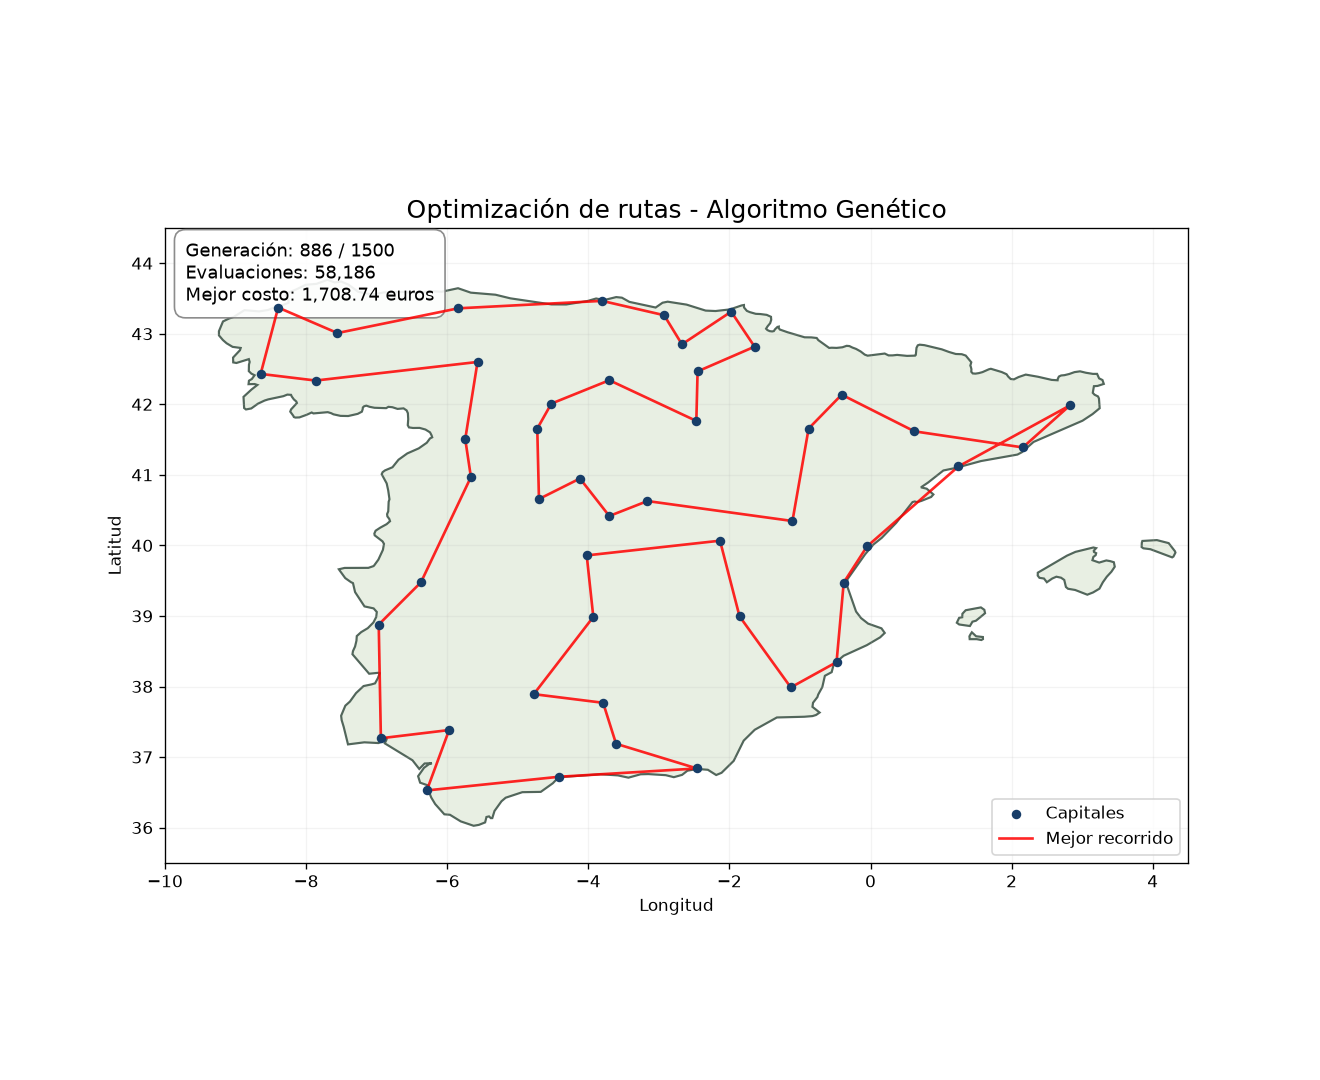
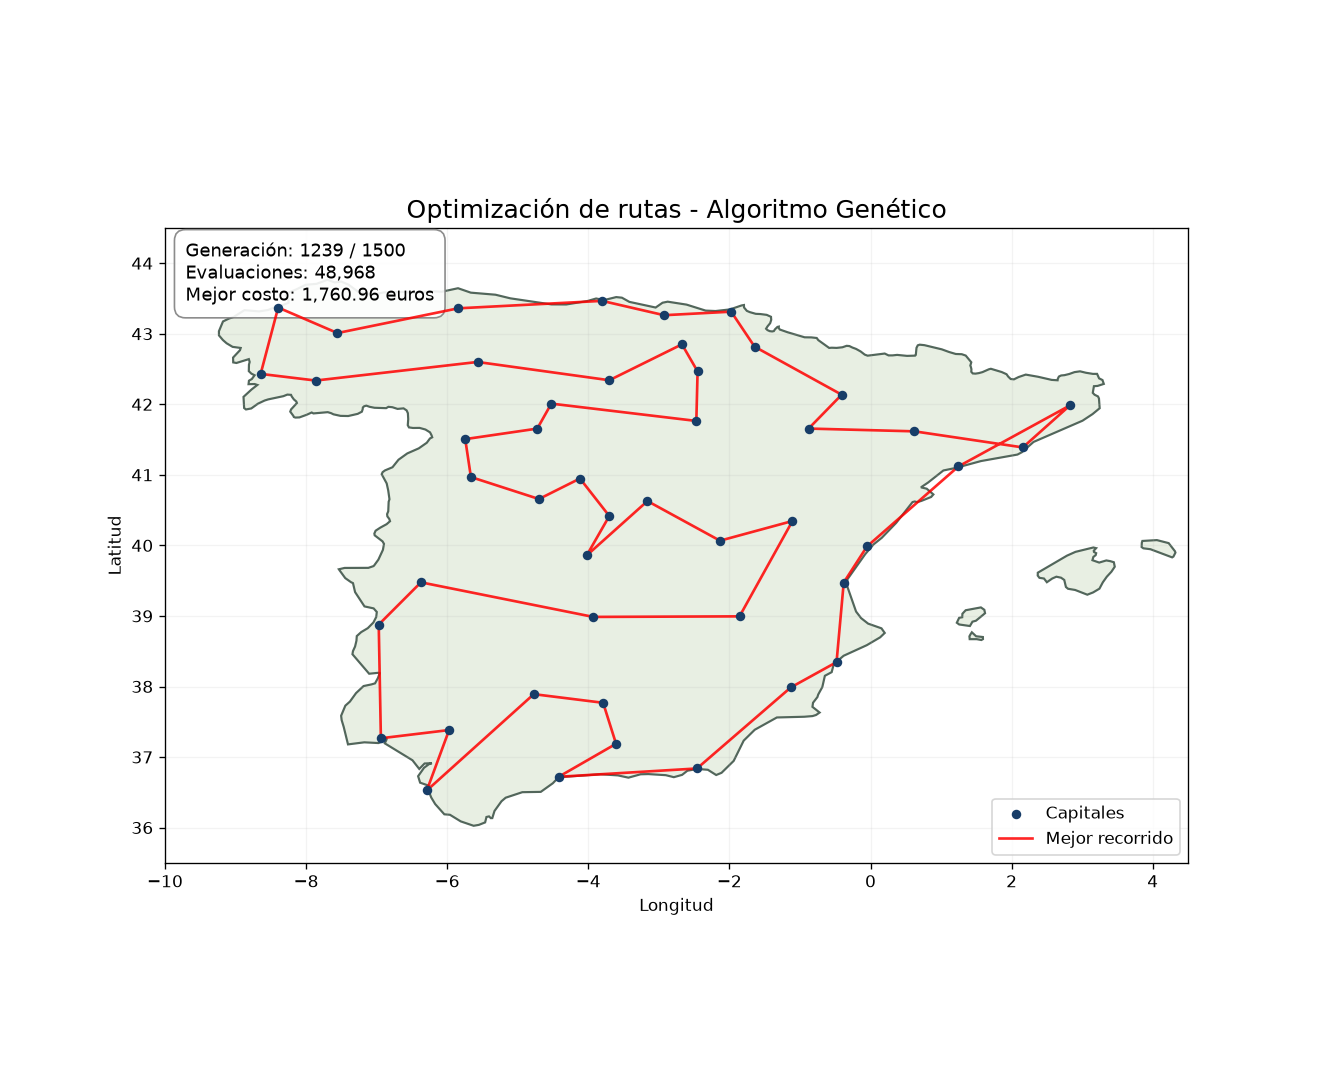
correcion al archivo config

diff --git a/Parte_2/orquestador.py b/Parte_2/orquestador.py
@@ -9,14 +9,18 @@ Uso:
     python Parte_2/orquestador.py barrido --parametro elite --valores 0 2 10 20
     python Parte_2/orquestador.py hora --vh-min 0 --vh-max 60 --vh-paso 5
     python Parte_2/orquestador.py limpiar        borra los archivos generados por el GA
+    python Parte_2/orquestador.py --config otra.json ga      usa otro archivo de configuración
 
 Comandos: ga, comparar, barrido, hora, limpiar.
+Al arrancar se lee Parte_2/config_ejemplo.json: sus valores sustituyen a los de
+la tabla PARAMS. Prioridad: línea de comandos > archivo de configuración > tabla.
 El algoritmo está en scripts/algoritmo_genetico.py y scripts/operadores_ga.py,
 los experimentos en scripts/experimentos_ga.py y los costos en scripts/costos.py.
 Los archivos se guardan en la carpeta outputs/ de la raíz del repositorio.
 """
 
 import argparse                  # lee los parámetros de la línea de comandos
+import json                      # lee el archivo de configuración
 import os                        # cuenta los núcleos para repartir las corridas
 import re                        # valida el sufijo de los archivos de salida
 import sys                       # sale con mensaje de error si algo falla
@@ -34,9 +38,11 @@ from operadores_ga import CRUCES, MUTACIONES
 # 1. PARÁMETROS (una sola tabla: alimenta la línea de comandos y el menú)
 # =====================================================================
 # nombre: (valor por defecto, tipo, descripción). None = valor propio del comando.
+# El archivo de configuración puede sustituir cualquiera de estos valores por defecto.
 
 PARAMS = {
     # Problema y salida
+    "vehiculo": ("", str, "vehículo (texto informativo: el cálculo usa consumo y precio)"),
     "valor_hora": (15.0, float, "valor de la hora del vendedor (EUR/h)"),
     "consumo": (5.5, float, "consumo del vehículo (L/100 km)"),
     "precio": (1.849, float, "precio del combustible (EUR/L)"),
@@ -75,7 +81,7 @@ PARAMS_COMANDO = {
     "barrido": ["parametro", "valores", "repeticiones", "tolerancia", "referencia", "procesos", *PARAMS_GA],
     "hora": ["vh_min", "vh_max", "vh_paso", "rep_hora", "procesos", *PARAMS_GA],
 }
-PARAMS_GLOBALES = ["valor_hora", "consumo", "precio", "semilla", "version"]
+PARAMS_GLOBALES = ["valor_hora", "consumo", "precio", "vehiculo", "semilla", "version"]
 
 TITULOS = {
     "ga": "Algoritmo genético: una corrida (JSON, mapa y GIF)",
@@ -90,6 +96,78 @@ FUNCIONES_COMANDO = {
     "hora": ex.estudio_valor_hora,
 }
 OPCIONES = {"cruce": sorted(CRUCES), "mutacion": sorted(MUTACIONES), "parametro": list(ex.BARRIDOS)}
+
+# Archivo de configuración que se lee al arrancar (--config indica otro)
+CONFIG = Path(__file__).resolve().parent / "config_ejemplo.json"
+
+# Valor de partida de cada parámetro: el de la tabla, sustituido por el del archivo de configuración
+DEFECTO = {n: v[0] for n, v in PARAMS.items()}
+
+
+def leer_config(ruta):
+    """Lee un archivo de configuración JSON y devuelve {parámetro: valor} ya validado.
+
+    Cada clave es un nombre de PARAMS. Las claves que empiezan por "_" son comentarios.
+    Lanza ValueError si hay una clave desconocida o un valor del tipo equivocado.
+    """
+    nombre = Path(ruta).name
+    try:
+        with open(ruta, encoding="utf-8-sig") as f:      # utf-8-sig: admite el archivo con o sin BOM
+            datos = json.load(f)
+    except json.JSONDecodeError as e:
+        raise ValueError(f"{nombre}: no es un JSON válido (línea {e.lineno}: {e.msg}).") from None
+    if not isinstance(datos, dict):
+        raise ValueError(f"{nombre}: debe ser un objeto JSON con pares parámetro: valor.")
+
+    def es_numero(v):
+        return isinstance(v, (int, float)) and not isinstance(v, bool)
+
+    config = {}
+    for clave, valor in datos.items():
+        if clave.startswith("_"):
+            continue
+        if clave not in PARAMS:
+            raise ValueError(f"{nombre}: parámetro desconocido '{clave}'. Válidos: {', '.join(PARAMS)}.")
+        defecto, tipo, _ = PARAMS[clave]
+        if valor is None and defecto is None:
+            pass
+        elif tipo is bool:
+            if not isinstance(valor, bool):
+                raise ValueError(f"{nombre}: '{clave}' debe ser true o false.")
+        elif tipo is int:
+            if not isinstance(valor, int) or isinstance(valor, bool):
+                raise ValueError(f"{nombre}: '{clave}' debe ser un número entero.")
+        elif tipo is float:
+            if not es_numero(valor):
+                raise ValueError(f"{nombre}: '{clave}' debe ser un número.")
+            valor = float(valor)
+        elif tipo is list:
+            if not isinstance(valor, list) or not all(es_numero(v) for v in valor):
+                raise ValueError(f"{nombre}: '{clave}' debe ser una lista de números.")
+            valor = [float(v) for v in valor]
+        elif not isinstance(valor, str):
+            raise ValueError(f"{nombre}: '{clave}' debe ser un texto entre comillas.")
+        if clave in OPCIONES and valor not in OPCIONES[clave]:
+            raise ValueError(f"{nombre}: '{clave}' debe ser uno de: {', '.join(OPCIONES[clave])}.")
+        config[clave] = valor
+    return config
+
+
+def cargar_config(ruta=None):
+    """Aplica el archivo de configuración a DEFECTO. Devuelve la ruta leída, o None si no hay archivo.
+
+    Sin `ruta` se usa CONFIG si existe. Con `ruta`, el archivo debe existir.
+    """
+    if ruta is None:
+        if not CONFIG.is_file():
+            return None
+        ruta = CONFIG
+    elif not Path(ruta).is_file():
+        raise ValueError(f"no existe el archivo de configuración {ruta}.")
+    config = leer_config(ruta)
+    DEFECTO.update(config)
+    print(f"Configuración leída de {Path(ruta).name}: " + (", ".join(f"{k} = {v}" for k, v in config.items()) or "sin parámetros"))
+    return Path(ruta)
 
 
 # =====================================================================
@@ -108,6 +186,8 @@ def correr(comando, P):
     hora = "" if comando == "hora" else f"valor de la hora = {p['valor_hora']:g} EUR/h | "
     print(f"\n>>> {TITULOS[comando]}\n    {hora}consumo = {p['consumo']:g} L/100 km | "
           f"precio = {p['precio']:g} EUR/L | semilla = {p['semilla']} | versión = {p['version']}")
+    if p["vehiculo"]:
+        print(f"    vehículo: {p['vehiculo']}")
     FUNCIONES_COMANDO[comando](p)
 
 
@@ -161,6 +241,8 @@ def convertir(nombre, texto):
 def mostrar(v):
     if v is None or v == []:
         return "(por defecto)"
+    if v == "":
+        return "(sin definir)"
     if isinstance(v, bool):
         return "sí" if v else "no"
     if isinstance(v, list):
@@ -189,7 +271,7 @@ def panel(titulo, nombres, P, ejecutar_fn=None):
         n = nombres[int(op) - 1]
         texto = input("  Nuevo valor (vacío = valor por defecto): ").strip()
         try:
-            P[n] = PARAMS[n][0] if texto == "" else convertir(n, texto)
+            P[n] = DEFECTO[n] if texto == "" else convertir(n, texto)
         except ValueError as e:
             print(f"  Valor inválido ({e}); se conserva el actual.")
             continue
@@ -198,7 +280,7 @@ def panel(titulo, nombres, P, ejecutar_fn=None):
 
 
 def menu():
-    P = {n: v[0] for n, v in PARAMS.items()}  # parámetros compartidos por todos los comandos
+    P = dict(DEFECTO)  # parámetros compartidos por todos los comandos
     comandos = list(TITULOS)
 
     def lanzar(c):
@@ -217,7 +299,7 @@ def menu():
             print(f"  {i}. {TITULOS[c]}")
         n_lim, n_cfg = len(comandos) + 1, len(comandos) + 2
         print(f"  {n_lim}. Borrar los archivos generados por el GA")
-        print(f"  {n_cfg}. Configuración global (valor de la hora, consumo, precio, semilla, versión)")
+        print(f"  {n_cfg}. Configuración global (valor de la hora, consumo, precio, vehículo, semilla, versión)")
         print("  0. Salir")
         op = input("Opción: ").strip()
         if op in ("0", "q", "salir"):
@@ -239,27 +321,37 @@ def menu():
 # =====================================================================
 
 def main():
-    if len(sys.argv) == 1:
+    # Primero se lee solo --config, porque el archivo fija los valores por defecto del resto.
+    previo = argparse.ArgumentParser(add_help=False, allow_abbrev=False)
+    previo.add_argument("--config", type=Path, default=None,
+                        help=f"archivo de configuración JSON (por defecto, {CONFIG.name} junto a este archivo)")
+    conocido, resto = previo.parse_known_args()
+    try:
+        cargar_config(conocido.config)
+    except ValueError as e:
+        sys.exit(f"[Error de configuración] {e}")
+
+    if not resto:
         try:
             menu()
         except (KeyboardInterrupt, EOFError):
             print("\n¡Hasta luego!")
         return
 
-    parser = argparse.ArgumentParser(description=__doc__,
+    parser = argparse.ArgumentParser(description=__doc__, parents=[previo], allow_abbrev=False,
                                      formatter_class=argparse.RawDescriptionHelpFormatter)
     parser.add_argument("comando", choices=[*TITULOS, "limpiar"],
                         help="comando a ejecutar, o 'limpiar' para borrar los archivos del GA")
-    for n, (defecto, tipo, ayuda) in PARAMS.items():
+    for n, (_, tipo, ayuda) in PARAMS.items():
         flag = "--" + n.replace("_", "-")
         if tipo is bool:
-            parser.add_argument(flag, dest=n, action="store_true", help=ayuda)
+            parser.add_argument(flag, dest=n, action="store_true", default=DEFECTO[n], help=ayuda)
         elif tipo is list:
-            parser.add_argument(flag, dest=n, type=float, nargs="+", help=ayuda)
+            parser.add_argument(flag, dest=n, type=float, nargs="+", default=DEFECTO[n], help=ayuda)
         elif n in OPCIONES:
-            parser.add_argument(flag, dest=n, default=defecto, choices=OPCIONES[n], help=ayuda)
+            parser.add_argument(flag, dest=n, default=DEFECTO[n], choices=OPCIONES[n], help=ayuda)
         else:
-            parser.add_argument(flag, dest=n, type=tipo, default=defecto, help=ayuda)
+            parser.add_argument(flag, dest=n, type=tipo, default=DEFECTO[n], help=ayuda)
     args = parser.parse_args()
 
     if args.comando == "limpiar":

diff --git a/README.md b/README.md
@@ -416,13 +416,25 @@ python Parte_2/orquestador.py limpiar                                   # borra 
 | `hora` | Corre el GA para cada valor de la hora y calcula en qué valores cambia la mejor ruta. | `hora_GA_<v>_corridas.csv`, `hora_GA_<v>_resumen.json`, `hora_GA_<v>.png` |
 | `limpiar` | Borra los archivos con `_GA_` en el nombre. No toca los de otros algoritmos. | |
 
+### Archivo de configuración
+
+Al arrancar, el orquestador lee `Parte_2/config_ejemplo.json`. Cada clave es un parámetro de la tabla siguiente, con el mismo nombre que en la línea de comandos pero con guion bajo (`valor_hora`, `p_mutacion`). Las claves que empiezan por `_` son comentarios. El archivo trae el vehículo, el valor de la hora, el consumo y el precio del combustible, con sus fuentes; se le puede agregar cualquier otro parámetro, por ejemplo `"elite": 0`.
+
+Prioridad: línea de comandos, luego archivo de configuración, luego valores por defecto del código. Una clave desconocida o un valor del tipo equivocado detienen el programa con un mensaje que indica cuál es.
+
+```bash
+python Parte_2/orquestador.py --config otra.json ga    # usa otro archivo de configuración
+```
+
 ### Parámetros
 
 | Argumento | Por defecto | Significado |
 |---|---|---|
-| `--valor-hora` | 15 | EUR por hora del vendedor |
-| `--consumo` | 5.5 | L/100 km del vehículo |
-| `--precio` | 1.849 | EUR por litro de combustible |
+| `--config` | `config_ejemplo.json` | Archivo de configuración JSON |
+| `--vehiculo` | del archivo | Texto informativo; el cálculo usa `consumo` y `precio` |
+| `--valor-hora` | del archivo (15) | EUR por hora del vendedor |
+| `--consumo` | del archivo (5.5) | L/100 km del vehículo |
+| `--precio` | del archivo (1.849) | EUR por litro de combustible |
 | `--semilla` | 0 | Semilla aleatoria. La corrida `k` de un experimento usa `semilla + k` |
 | `--version` | 0001 | Sufijo de los archivos de salida |
 | `--poblacion` | 100 | Tamaño de la población |
